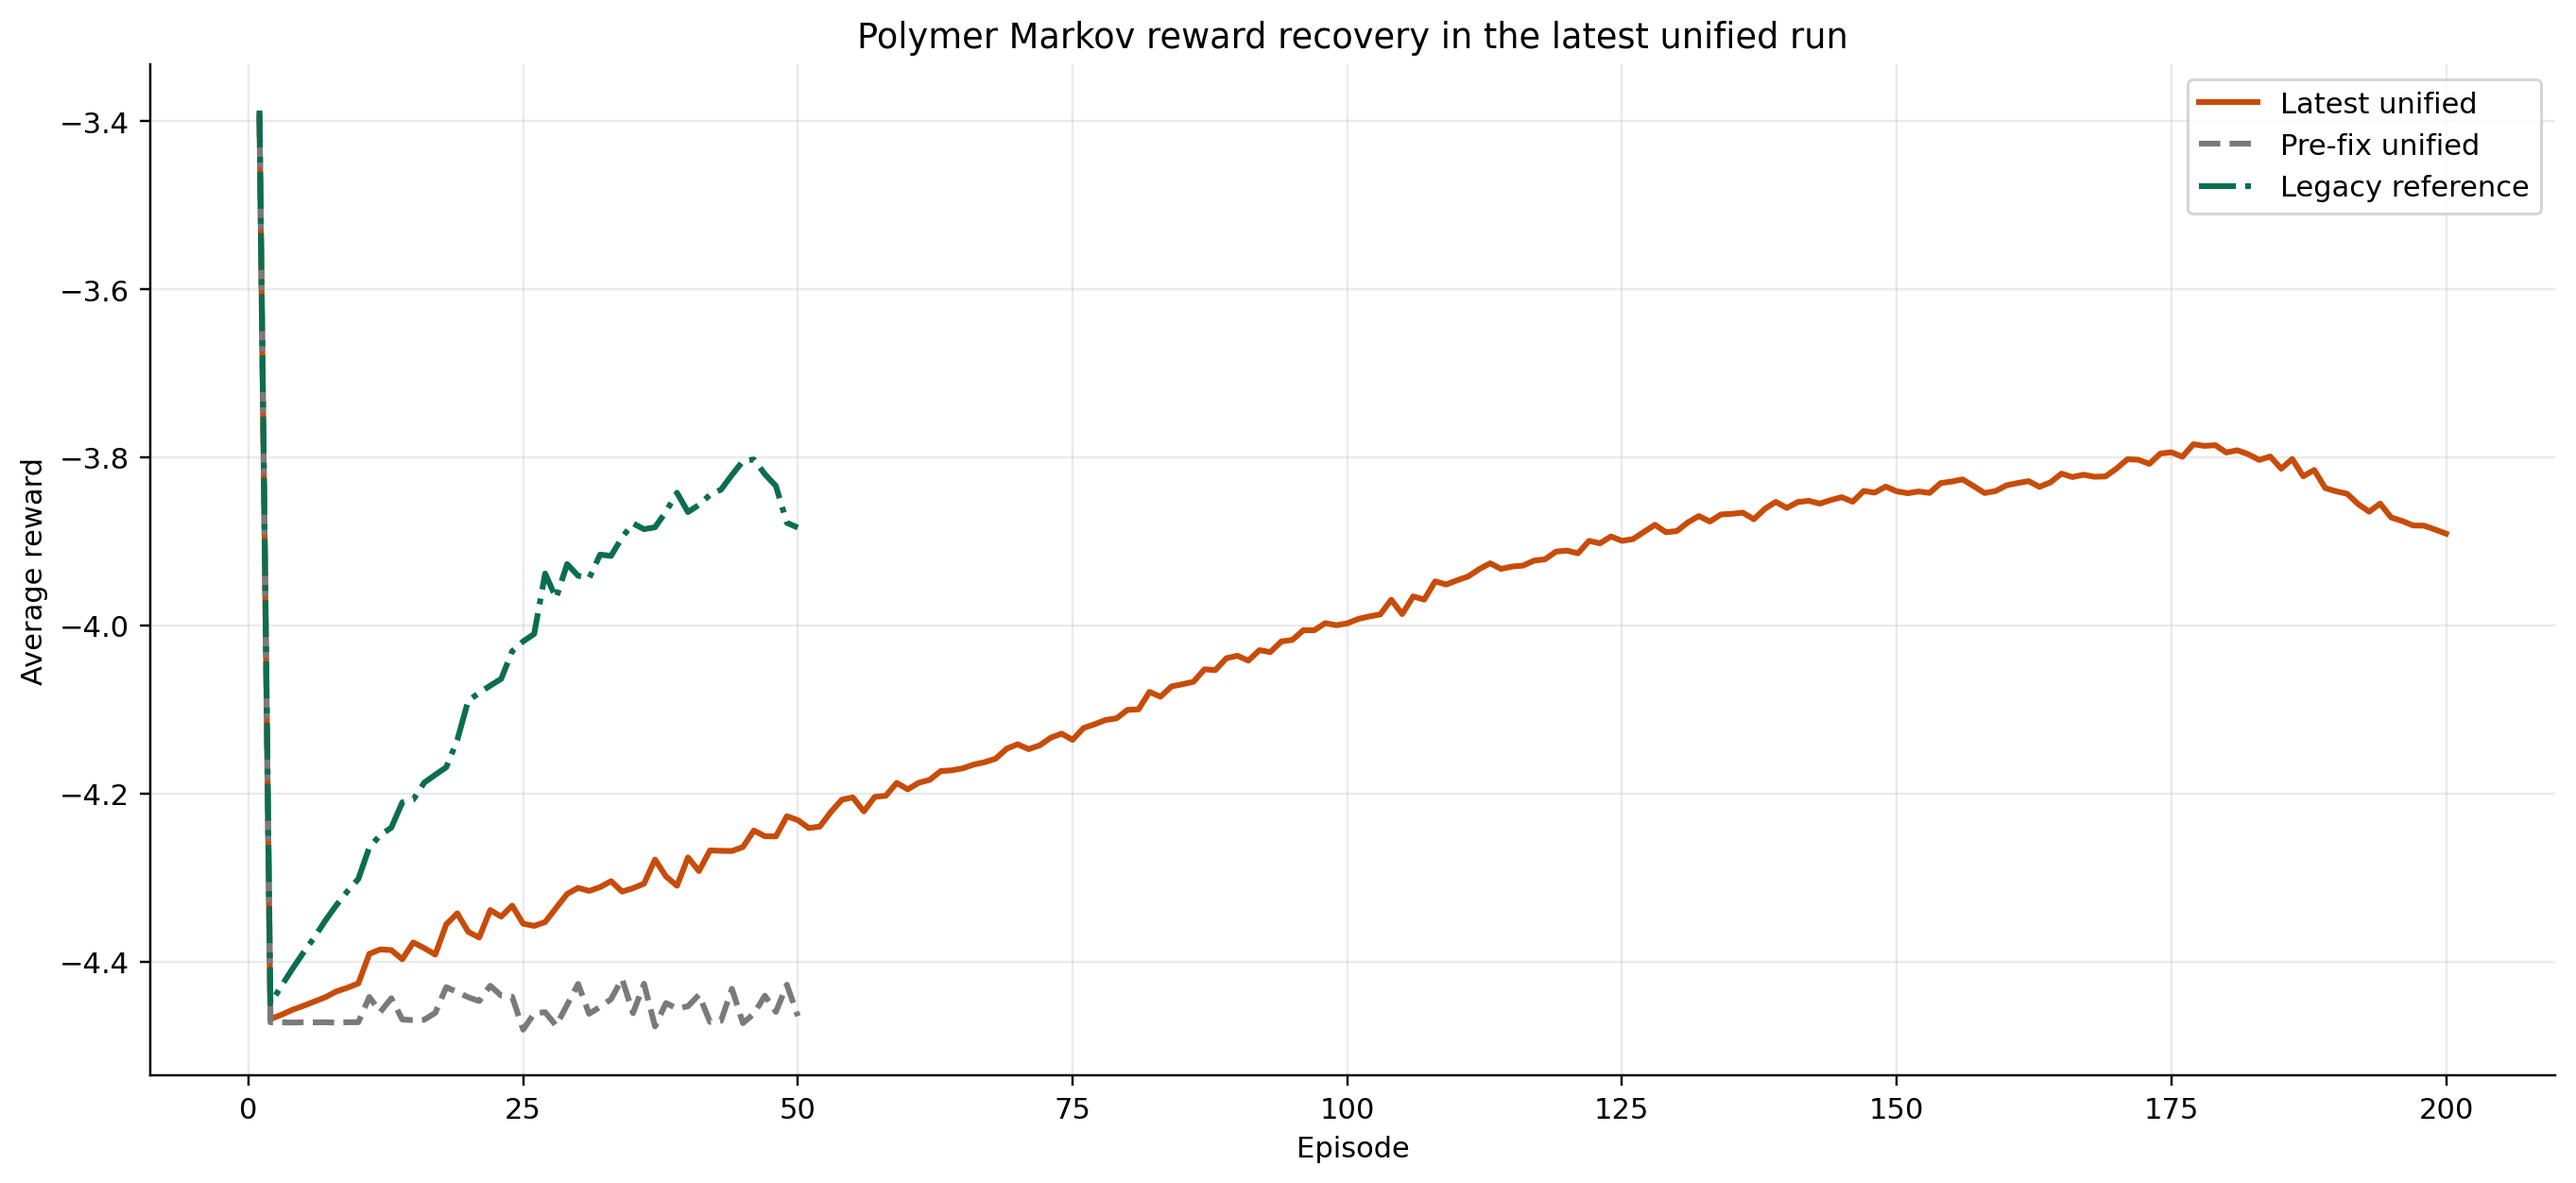
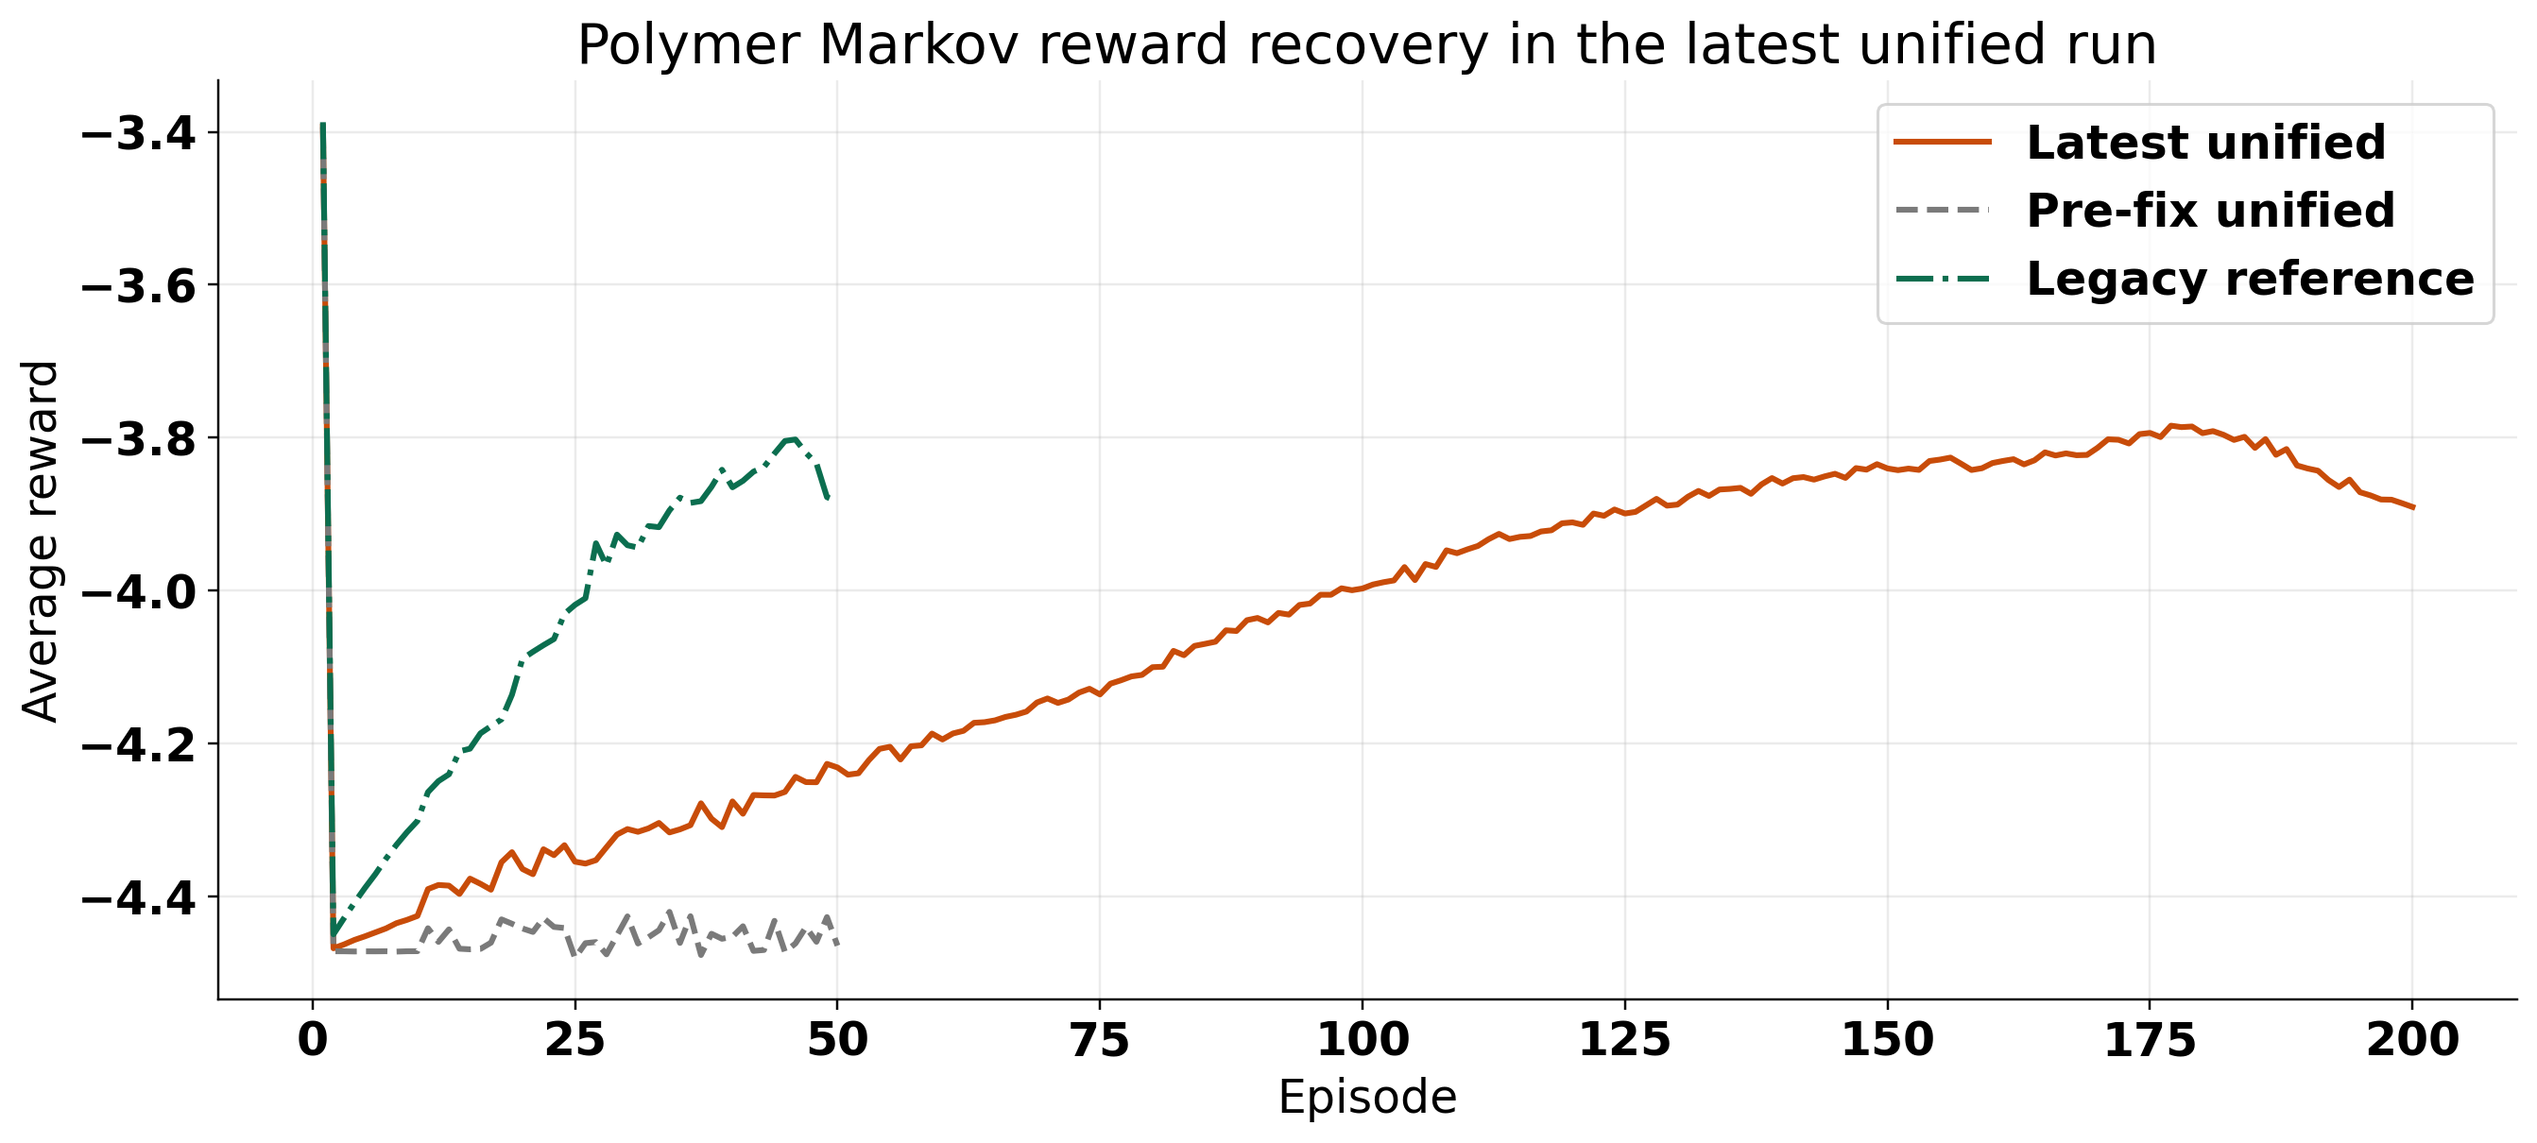
Add final test episode MPC comparison to Markov report

diff --git a/report/scripts/analyze_polymer_markov_unified_followup_20260511.py b/report/scripts/analyze_polymer_markov_unified_followup_20260511.py
@@ -2,6 +2,7 @@ from __future__ import annotations
 
 import json
 import pickle
+import sys
 from dataclasses import dataclass
 from datetime import datetime
 from pathlib import Path
@@ -9,8 +10,13 @@ from pathlib import Path
 import matplotlib.pyplot as plt
 import numpy as np
 
-
 REPO_ROOT = Path(__file__).resolve().parents[2]
+if str(REPO_ROOT) not in sys.path:
+    sys.path.insert(0, str(REPO_ROOT))
+
+from utils.helpers import apply_min_max, reverse_min_max
+
+
 LATEST_UNIFIED_RUN = REPO_ROOT / "Polymer" / "Results" / "td3_markov_disturb" / "20260511_120210"
 REGRESSION_UNIFIED_RUN = REPO_ROOT / "Polymer" / "Results" / "td3_markov_disturb" / "20260510_215724"
 LEGACY_RUN = REPO_ROOT / "Polymer" / "Results" / "polymer_markov_corrected_mpc" / "20260510_212956"
@@ -270,6 +276,123 @@ def _plot_td3_decline_diagnostics(latest: RunBundle, out_dir: Path) -> Path:
     return out_path
 
 
+def _final_test_episode_metrics(latest: RunBundle, mpc_bundle: dict) -> dict:
+    time_in_sub_episodes = int(latest.bundle["time_in_sub_episodes"])
+    rl_y = np.asarray(latest.bundle["y_line_full"], float)
+    rl_u = np.asarray(latest.bundle["u_step_full"], float)
+    mpc_y = np.asarray(mpc_bundle["y_mpc"], float)
+    mpc_u = np.asarray(mpc_bundle["u_mpc"], float)
+
+    rl_y_last = rl_y[-(time_in_sub_episodes + 1) :, :]
+    rl_u_last = rl_u[-time_in_sub_episodes:, :]
+    mpc_y_last = mpc_y[-(time_in_sub_episodes + 1) :, :]
+    mpc_u_last = mpc_u[-time_in_sub_episodes:, :]
+
+    data_min = np.asarray(latest.bundle["data_min"], float)
+    data_max = np.asarray(latest.bundle["data_max"], float)
+    n_inputs = int(rl_u_last.shape[1])
+    y_ss = np.asarray(latest.bundle["steady_states"]["y_ss"], float)
+    y_ss_scaled = apply_min_max(y_ss, data_min[n_inputs:], data_max[n_inputs:])
+    y_sp_scaled_dev = np.asarray(latest.bundle["y_sp"], float)[-time_in_sub_episodes:, :]
+    y_sp_phys = reverse_min_max(
+        y_sp_scaled_dev + y_ss_scaled,
+        data_min[n_inputs:],
+        data_max[n_inputs:],
+    )
+
+    rl_err = rl_y_last[1:, :] - y_sp_phys
+    mpc_err = mpc_y_last[1:, :] - y_sp_phys
+    rl_du = np.diff(np.vstack([rl_u_last[0:1, :], rl_u_last]), axis=0)
+    mpc_du = np.diff(np.vstack([mpc_u_last[0:1, :], mpc_u_last]), axis=0)
+
+    compare_rewards_path = latest.run_dir.parent.parent / "disturb_compare_td3_markov" / "20260511_120232" / "input_data.pkl"
+    avg_rl_last = float(latest.avg_rewards[-1])
+    avg_mpc_last = np.nan
+    if compare_rewards_path.exists():
+        with compare_rewards_path.open("rb") as handle:
+            cmp_bundle = pickle.load(handle)
+        avg_mpc = np.asarray(cmp_bundle.get("avg_rewards_mpc", []), float)
+        if avg_mpc.size:
+            avg_mpc_last = float(avg_mpc[-1])
+
+    return {
+        "avg_reward_rl_last_test_episode": avg_rl_last,
+        "avg_reward_mpc_last_test_episode": avg_mpc_last,
+        "eta_rmse_rl": float(np.sqrt(np.mean(np.square(rl_err[:, 0])))),
+        "eta_rmse_mpc": float(np.sqrt(np.mean(np.square(mpc_err[:, 0])))),
+        "temp_rmse_rl": float(np.sqrt(np.mean(np.square(rl_err[:, 1])))),
+        "temp_rmse_mpc": float(np.sqrt(np.mean(np.square(mpc_err[:, 1])))),
+        "eta_iae_rl": float(np.sum(np.abs(rl_err[:, 0]))),
+        "eta_iae_mpc": float(np.sum(np.abs(mpc_err[:, 0]))),
+        "temp_iae_rl": float(np.sum(np.abs(rl_err[:, 1]))),
+        "temp_iae_mpc": float(np.sum(np.abs(mpc_err[:, 1]))),
+        "input_move_norm_rl": float(np.mean(np.linalg.norm(rl_du, axis=1))),
+        "input_move_norm_mpc": float(np.mean(np.linalg.norm(mpc_du, axis=1))),
+    }
+
+
+def _plot_final_test_episode_compare(latest: RunBundle, mpc_bundle: dict, out_dir: Path) -> Path:
+    time_in_sub_episodes = int(latest.bundle["time_in_sub_episodes"])
+    delta_t = float(latest.bundle["delta_t"])
+    meta = dict(latest.bundle.get("system_metadata", {}))
+    output_labels = list(meta.get("output_labels", ["Output 1", "Output 2"]))
+    input_labels = list(meta.get("input_labels", ["Input 1", "Input 2"]))
+    time_label = str(meta.get("time_label", "Time"))
+
+    rl_y = np.asarray(latest.bundle["y_line_full"], float)[-(time_in_sub_episodes + 1) :, :]
+    rl_u = np.asarray(latest.bundle["u_step_full"], float)[-time_in_sub_episodes:, :]
+    mpc_y = np.asarray(mpc_bundle["y_mpc"], float)[-(time_in_sub_episodes + 1) :, :]
+    mpc_u = np.asarray(mpc_bundle["u_mpc"], float)[-time_in_sub_episodes:, :]
+
+    data_min = np.asarray(latest.bundle["data_min"], float)
+    data_max = np.asarray(latest.bundle["data_max"], float)
+    n_inputs = int(rl_u.shape[1])
+    y_ss = np.asarray(latest.bundle["steady_states"]["y_ss"], float)
+    y_ss_scaled = apply_min_max(y_ss, data_min[n_inputs:], data_max[n_inputs:])
+    y_sp_scaled_dev = np.asarray(latest.bundle["y_sp"], float)[-time_in_sub_episodes:, :]
+    y_sp_phys = reverse_min_max(
+        y_sp_scaled_dev + y_ss_scaled,
+        data_min[n_inputs:],
+        data_max[n_inputs:],
+    )
+
+    t_line = np.linspace(0.0, time_in_sub_episodes * delta_t, time_in_sub_episodes + 1)
+    t_step = t_line[:-1]
+
+    fig, axs = plt.subplots(2, 2, figsize=(12.8, 8.4), sharex="col")
+    for idx in range(2):
+        ax = axs[idx, 0]
+        ax.plot(t_line, rl_y[:, idx], color="#C84C09", linewidth=2.0, label="Markov RL")
+        ax.plot(t_line, mpc_y[:, idx], color="#0B6E4F", linewidth=1.8, linestyle="--", label="Nominal MPC")
+        ax.step(t_step, y_sp_phys[:, idx], where="post", color="0.35", linewidth=1.5, linestyle=":", label="Setpoint")
+        ax.set_ylabel(output_labels[idx])
+        ax.grid(alpha=0.25)
+        ax.spines["top"].set_visible(False)
+        ax.spines["right"].set_visible(False)
+        if idx == 0:
+            ax.legend(loc="best", fontsize=9)
+
+        ax_u = axs[idx, 1]
+        ax_u.step(t_step, rl_u[:, idx], where="post", color="#C84C09", linewidth=2.0, label="Markov RL")
+        ax_u.step(t_step, mpc_u[:, idx], where="post", color="#0B6E4F", linewidth=1.8, linestyle="--", label="Nominal MPC")
+        ax_u.set_ylabel(input_labels[idx])
+        ax_u.grid(alpha=0.25)
+        ax_u.spines["top"].set_visible(False)
+        ax_u.spines["right"].set_visible(False)
+        if idx == 0:
+            ax_u.legend(loc="best", fontsize=9)
+
+    axs[1, 0].set_xlabel(time_label)
+    axs[1, 1].set_xlabel(time_label)
+    axs[0, 0].set_title("Final test episode outputs")
+    axs[0, 1].set_title("Final test episode inputs")
+    fig.tight_layout()
+    out_path = out_dir / "latest_test_episode_vs_nominal_mpc.png"
+    fig.savefig(out_path, dpi=220, bbox_inches="tight")
+    plt.close(fig)
+    return out_path
+
+
 def _summary(run: RunBundle) -> dict:
     n_ep = run.n_episodes
     src = run.action_source
@@ -321,11 +444,13 @@ def main() -> None:
     latest = _load_run("Latest unified", LATEST_UNIFIED_RUN)
     regression = _load_run("Pre-fix unified", REGRESSION_UNIFIED_RUN)
     legacy = _load_run("Legacy reference", LEGACY_RUN)
+    mpc_bundle = _load_pickle(REPO_ROOT / "Polymer" / "Data" / "mpc_results_dist.pickle")
 
     figure_paths = [
         _plot_reward_recovery(latest, regression, legacy, OUT_DIR),
         _plot_latest_action_mix(latest, OUT_DIR),
         _plot_td3_decline_diagnostics(latest, OUT_DIR),
+        _plot_final_test_episode_compare(latest, mpc_bundle, OUT_DIR),
     ]
 
     summary = {
@@ -333,6 +458,7 @@ def main() -> None:
         "latest_unified": _summary(latest),
         "pre_fix_unified": _summary(regression),
         "legacy_reference": _summary(legacy),
+        "latest_final_test_episode_vs_nominal_mpc": _final_test_episode_metrics(latest, mpc_bundle),
         "figure_paths": [str(path.relative_to(REPO_ROOT)) for path in figure_paths],
     }
     with (OUT_DIR / "summary.json").open("w", encoding="utf-8") as handle:

diff --git a/report/polymer_markov_unified_algorithm_and_tuning_start_2026_05_11.md b/report/polymer_markov_unified_algorithm_and_tuning_start_2026_05_11.md
@@ -223,6 +223,7 @@ Generated figures:
 - `report/figures/polymer_markov_unified_followup_20260511/latest_run_recovery_and_reward.png`
 - `report/figures/polymer_markov_unified_followup_20260511/latest_run_action_mix.png`
 - `report/figures/polymer_markov_unified_followup_20260511/latest_td3_decline_diagnostics.png`
+- `report/figures/polymer_markov_unified_followup_20260511/latest_test_episode_vs_nominal_mpc.png`
 - `report/figures/polymer_markov_unified_followup_20260511/summary.json`
 
 ### Main result
@@ -256,6 +257,25 @@ The latest bundle contains `200` episodes, with:
 ![Latest unified reward and action-source evolution](figures/polymer_markov_unified_followup_20260511/latest_run_action_mix.png)
 
 This means the good reward is not coming from a long hidden BC phase. The BC window is short and only stabilizes the first few live episodes after warm start.
+
+### Final test episode versus nominal MPC
+
+The final episode in the latest run is also a **test** episode, so it gives a clean RL-versus-nominal-MPC comparison without exploration noise.
+
+For that last test episode:
+
+| Metric | Markov RL | Nominal MPC |
+| --- | ---: | ---: |
+| Average reward | `-3.8908` | `-4.4174` |
+| Viscosity RMSE | `0.1830` | `0.1917` |
+| Temperature RMSE | `0.4502` | `0.5678` |
+| Viscosity IAE | `43.59` | `51.71` |
+| Temperature IAE | `104.94` | `212.30` |
+| Mean input-move norm | `1.0031` | `1.1915` |
+
+![Latest final test episode versus nominal MPC](figures/polymer_markov_unified_followup_20260511/latest_test_episode_vs_nominal_mpc.png)
+
+So the latest Markov controller is not only recovering average training-run reward. On the final held-out test episode it also outperforms nominal MPC in both outputs, with the clearest gain appearing in reactor temperature tracking.
 
 ### Why TD3 role becomes less and less
 
